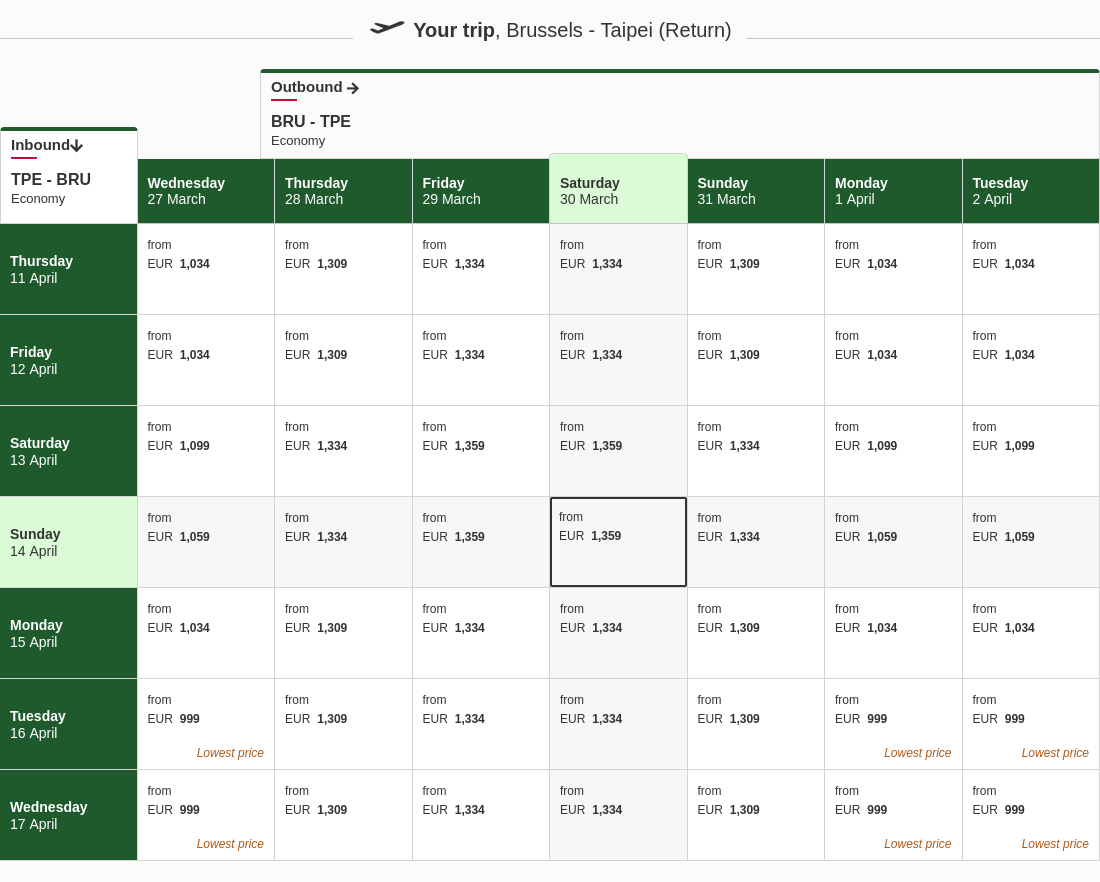
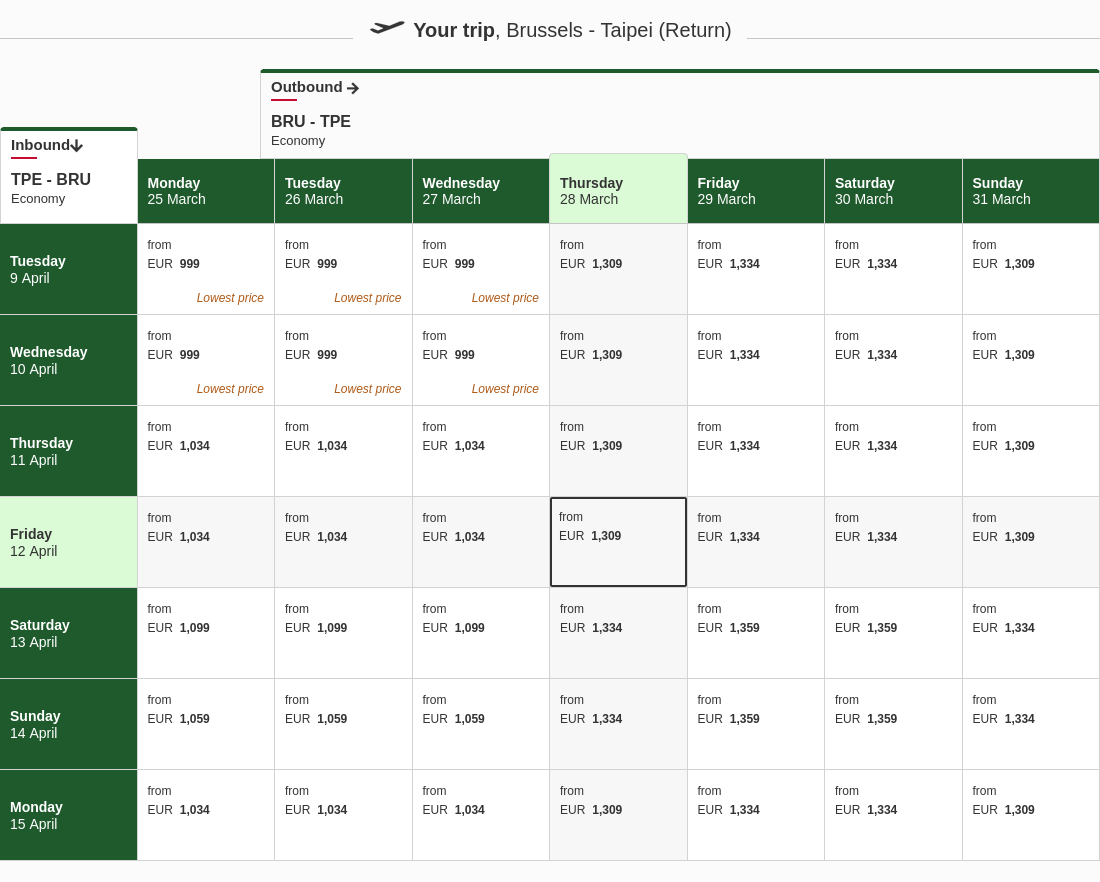
Latest scraping taiwan: Thu Jun  8 10:39:01 UTC 2023

diff --git a/scrapes/taiwan/turkish-airlines.md b/scrapes/taiwan/turkish-airlines.md
@@ -1,14 +1,14 @@
 |     | Previous Next |     |     |     |     |     |     |
 | --- | --- | --- | --- | --- | --- | --- | --- |
-| Previous | Return<br><br>11 Thursday April 2024 | Return<br><br>12 Friday April 2024 | Return<br><br>13 Saturday April 2024 | Return<br><br>14 Sunday April 2024 | Return<br><br>15 Monday April 2024 | Return<br><br>16 Tuesday April 2024 | Return<br><br>17 Wednesday April 2024 |
+| Previous | Return<br><br>09 Tuesday April 2024 | Return<br><br>10 Wednesday April 2024 | Return<br><br>11 Thursday April 2024 | Return<br><br>12 Friday April 2024 | Return<br><br>13 Saturday April 2024 | Return<br><br>14 Sunday April 2024 | Return<br><br>15 Monday April 2024 |
 | --- | --- | --- | --- | --- | --- | --- | --- |
-| Departure<br><br>27 Wednesday March 2024 | 1,231.64 | 1,231.64 | 1,298.64 | 1,231.64 | 1,089.64 | 1,089.64 | 1,089.64 |
-| Departure<br><br>28 Thursday March 2024 | 1,312.64 | 1,312.64 | 1,379.64 | 1,312.64 | 1,169.64 | 1,169.64 | 1,169.64 |
-| Departure<br><br>29 Friday March 2024 | 1,408.64 | 1,408.64 | 1,475.64 | 1,408.64 | 1,265.64 | 1,265.64 | 1,265.64 |
-| Departure<br><br>30 Saturday March 2024 | 1,231.64 | 1,231.64 | 1,298.64 | 1,231.64 | 1,089.64 | 1,089.64 | 1,089.64 |
-| Departure<br><br>31 Sunday March 2024 | 1,312.64 | 1,312.64 | 1,379.64 | 1,312.64 | 1,169.64 | 1,169.64 | 1,169.64 |
-| Departure<br><br>01 Monday April 2024 | 1,523.64 | 1,523.64 | 1,590.64 | 1,523.64 | 1,380.64 | 1,380.64 | 1,380.64 |
-| Departure<br><br>02 Tuesday April 2024 | 1,408.64 | 1,408.64 | 1,475.64 | 1,408.64 | 1,265.64 | 1,265.64 | 1,265.64 |
+| Departure<br><br>25 Monday March 2024 | 1,114.55 | 1,256.55 | 1,256.55 | 1,256.55 | 1,323.55 | 1,256.55 | 1,114.55 |
+| Departure<br><br>26 Tuesday March 2024 | 1,022.64 | 1,164.64 | 1,164.64 | 1,164.64 | 1,231.64 | 1,164.64 | 1,022.64 |
+| Departure<br><br>27 Wednesday March 2024 | 1,089.64 | 1,231.64 | 1,231.64 | 1,231.64 | 1,298.64 | 1,231.64 | 1,089.64 |
+| Departure<br><br>28 Thursday March 2024 | 1,169.64 | 1,312.64 | 1,312.64 | 1,312.64 | 1,379.64 | 1,312.64 | 1,169.64 |
+| Departure<br><br>29 Friday March 2024 | 1,265.64 | 1,408.64 | 1,408.64 | 1,408.64 | 1,475.64 | 1,408.64 | 1,265.64 |
+| Departure<br><br>30 Saturday March 2024 | 1,089.64 | 1,231.64 | 1,231.64 | 1,231.64 | 1,298.64 | 1,231.64 | 1,089.64 |
+| Departure<br><br>31 Sunday March 2024 | 1,270.64 | 1,413.64 | 1,413.64 | 1,413.64 | 1,480.64 | 1,413.64 | 1,270.64 |
 | Next |
 | Lowest fare — No flight or seat availability |     |     |     |     |     |     |     |
 

diff --git a/scrapes/taiwan/emirates.md b/scrapes/taiwan/emirates.md
@@ -1,12 +1,12 @@
 |     |     |     |     |     |     |     |     |
 | --- | --- | --- | --- | --- | --- | --- | --- |
-| Inbound<br><br>TPE - BRU<br><br>Economy<br><br>Inbound Taipei to Taipei in Economy Class | **Wednesday**<br><br>27 March | **Thursday**<br><br>28 March | **Friday**<br><br>29 March | **Saturday**<br><br>30 March | **Sunday**<br><br>31 March | **Monday**<br><br>1 April | **Tuesday**<br><br>2 April |
-| **Thursday**<br><br>11 April | **1,034** | **1,309** | **1,334** | **1,334** | **1,309** | **1,034** | **1,034** |
-| **Friday**<br><br>12 April | **1,034** | **1,309** | **1,334** | **1,334** | **1,309** | **1,034** | **1,034** |
-| **Saturday**<br><br>13 April | **1,099** | **1,334** | **1,359** | **1,359** | **1,334** | **1,099** | **1,099** |
-| **Sunday**<br><br>14 April | **1,059** | **1,334** | **1,359** | **1,359** | **1,334** | **1,059** | **1,059** |
-| **Monday**<br><br>15 April | **1,034** | **1,309** | **1,334** | **1,334** | **1,309** | **1,034** | **1,034** |
-| **Tuesday**<br><br>16 April | **999** | **1,309** | **1,334** | **1,334** | **1,309** | **999** | **999** |
-| **Wednesday**<br><br>17 April | **999** | **1,309** | **1,334** | **1,334** | **1,309** | **999** | **999** |
+| Inbound<br><br>TPE - BRU<br><br>Economy<br><br>Inbound Taipei to Taipei in Economy Class | **Monday**<br><br>25 March | **Tuesday**<br><br>26 March | **Wednesday**<br><br>27 March | **Thursday**<br><br>28 March | **Friday**<br><br>29 March | **Saturday**<br><br>30 March | **Sunday**<br><br>31 March |
+| **Tuesday**<br><br>9 April | **999** | **999** | **999** | **1,309** | **1,334** | **1,334** | **1,309** |
+| **Wednesday**<br><br>10 April | **999** | **999** | **999** | **1,309** | **1,334** | **1,334** | **1,309** |
+| **Thursday**<br><br>11 April | **1,034** | **1,034** | **1,034** | **1,309** | **1,334** | **1,334** | **1,309** |
+| **Friday**<br><br>12 April | **1,034** | **1,034** | **1,034** | **1,309** | **1,334** | **1,334** | **1,309** |
+| **Saturday**<br><br>13 April | **1,099** | **1,099** | **1,099** | **1,334** | **1,359** | **1,359** | **1,334** |
+| **Sunday**<br><br>14 April | **1,059** | **1,059** | **1,059** | **1,334** | **1,359** | **1,359** | **1,334** |
+| **Monday**<br><br>15 April | **1,034** | **1,034** | **1,034** | **1,309** | **1,334** | **1,334** | **1,309** |
 
 ![](emirates.png)
